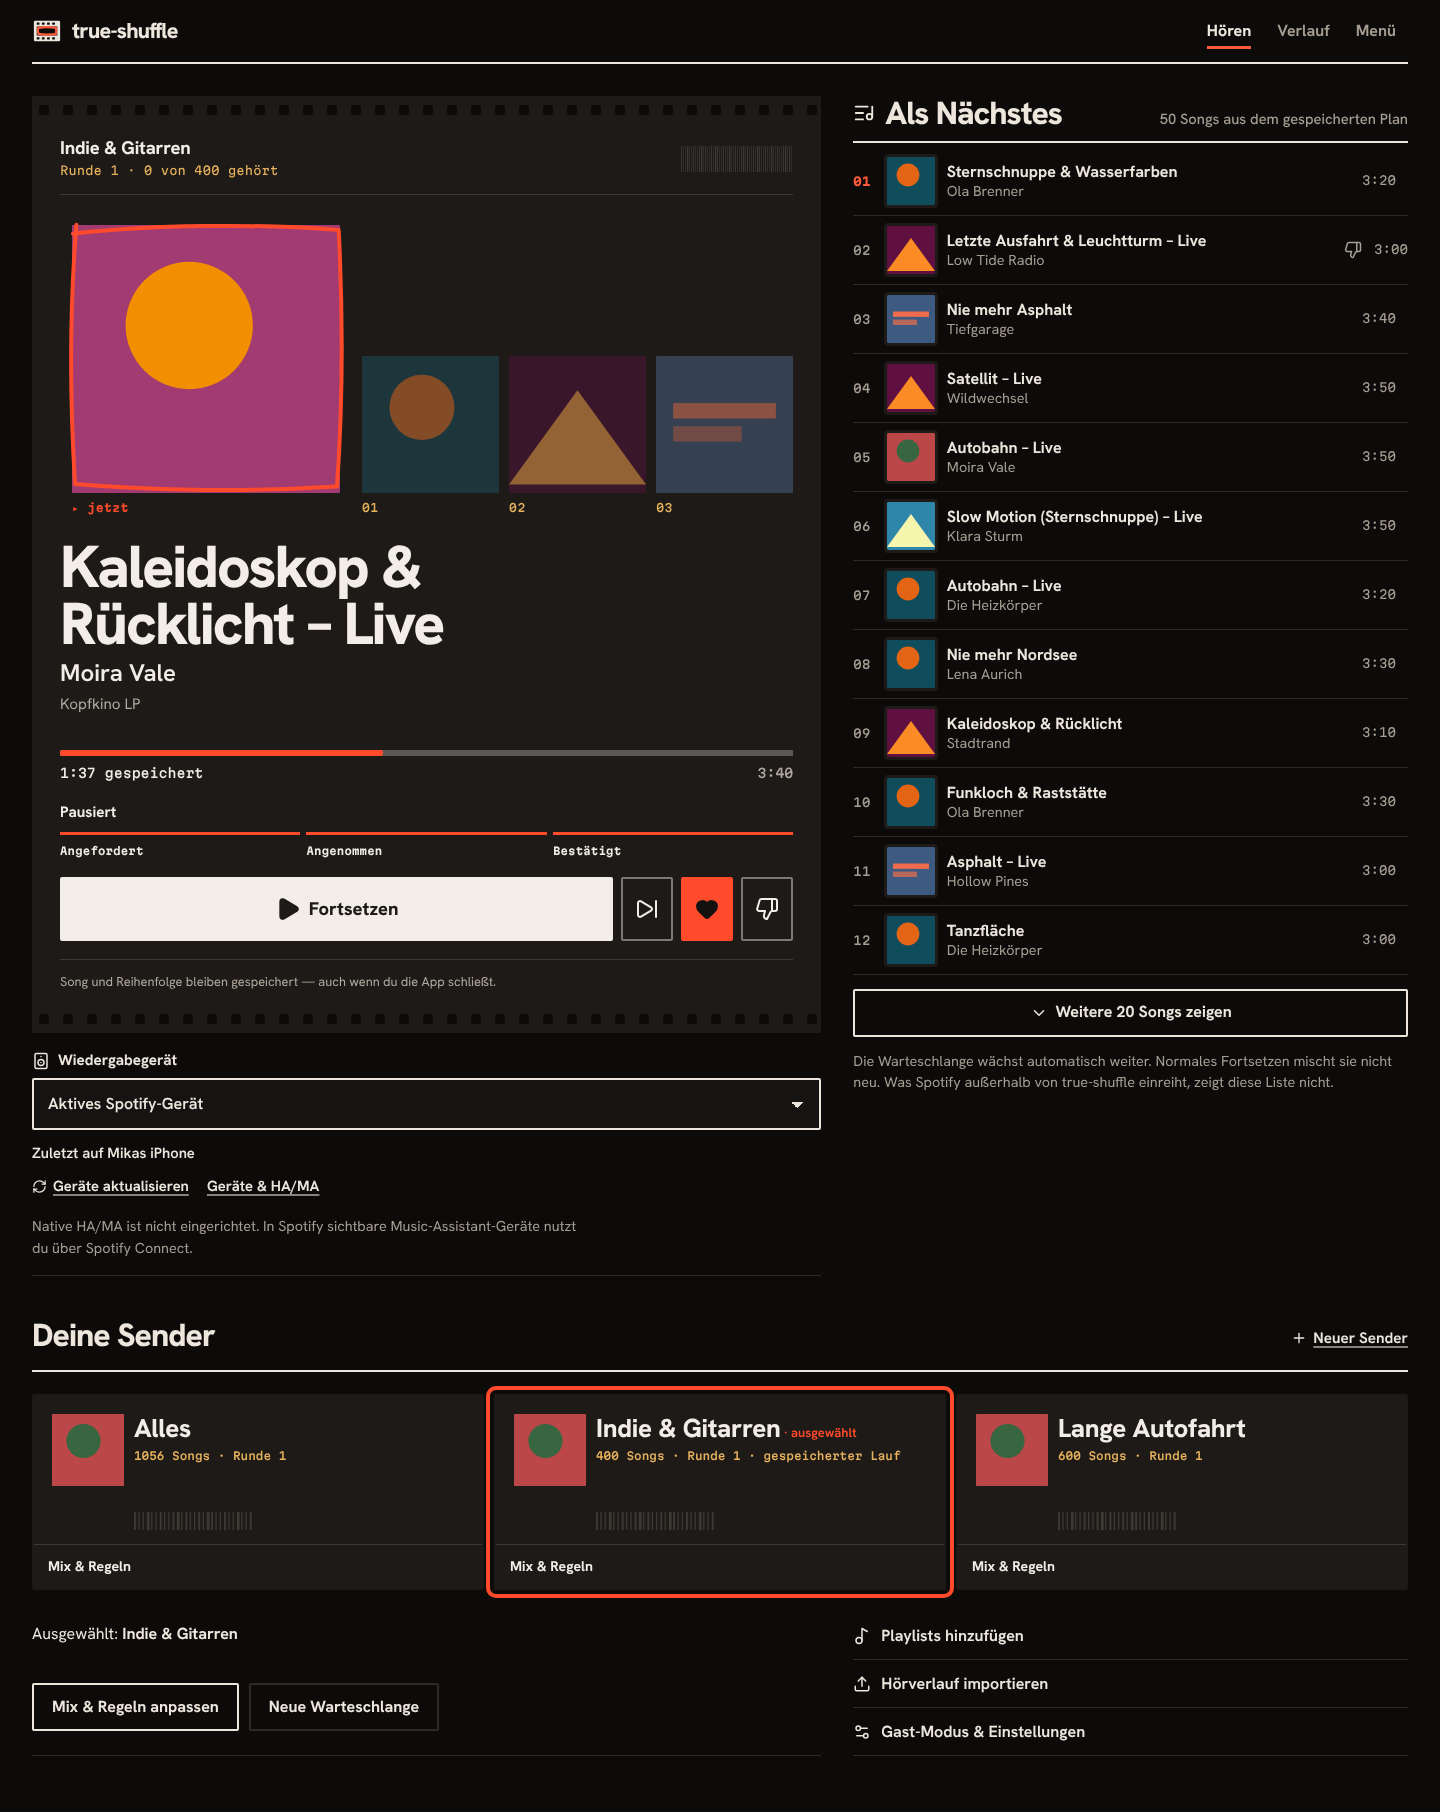
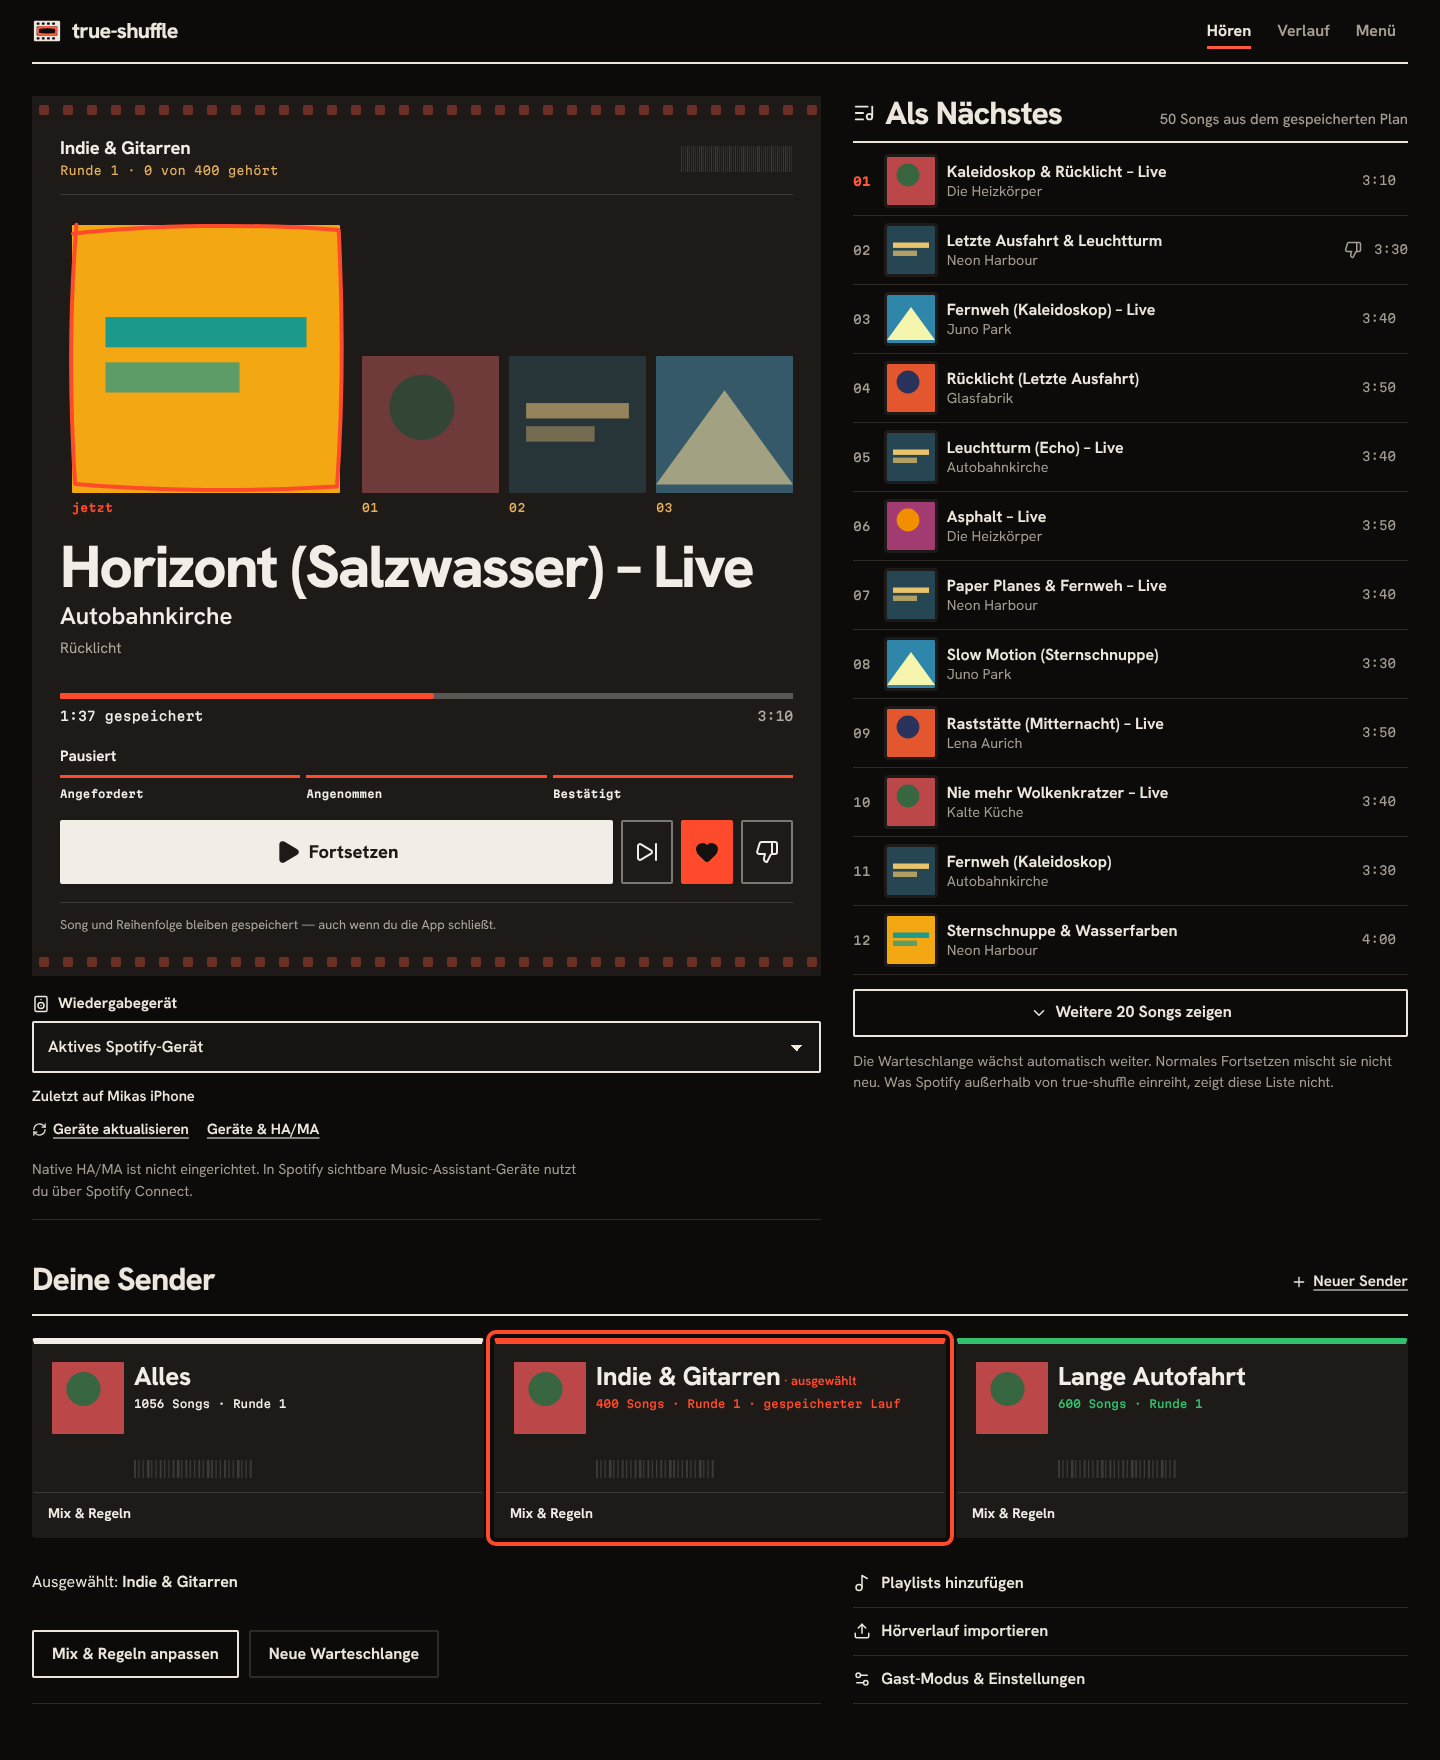
fix(ui): finish-review batch — mobile reading order, unbroken segment labels, darkroom perforation, per-Sender grease, bounded highlight
Claude-Session: https://claude.ai/code/session_01GfrWhVD3PNTtGAxyXcbJSX

diff --git a/src/client/styles/base.css b/src/client/styles/base.css
@@ -600,12 +600,13 @@ main h1[tabindex="-1"]:focus {
 
 .now-shelf {
 	display: grid;
-	grid-template-columns: min(36vw, 148px) minmax(0, 1fr);
+	grid-template-columns: minmax(0, 1fr);
 	grid-template-areas:
-		"art artist"
-		"art album"
-		"title title";
-	grid-template-rows: 1fr auto auto;
+		"art"
+		"title"
+		"artist"
+		"album";
+	grid-template-rows: auto;
 	column-gap: 16px;
 	row-gap: 6px;
 }
@@ -616,7 +617,7 @@ main h1[tabindex="-1"]:focus {
 }
 
 .cover.player-art {
-	width: 100%;
+	width: min(52vw, 208px);
 	height: auto;
 	aspect-ratio: 1;
 	object-fit: cover;
@@ -1804,6 +1805,16 @@ input[type="radio"].check {
 		color var(--t) var(--ease);
 }
 
+.segmented__opt,
+.segmented__opt span {
+	overflow-wrap: normal;
+	word-break: normal;
+}
+
+.segmented__opt {
+	min-width: max-content;
+}
+
 .segmented__opt input {
 	position: absolute;
 	opacity: 0;
@@ -2447,6 +2458,7 @@ input[type="radio"].check {
 	}
 
 	.cover.player-art {
+		width: 100%;
 		margin-bottom: 0;
 	}
 

diff --git a/src/client/styles/kontakt.css b/src/client/styles/kontakt.css
@@ -83,6 +83,7 @@
 	--brand: #ff5a3c;
 	--film: #1d1a17;
 	--stage-line: #3f3934;
+	--hole: #6b2f25;
 }
 
 @media (prefers-color-scheme: dark) {
@@ -103,6 +104,7 @@
 		--brand: #ff5a3c;
 		--film: #1d1a17;
 		--stage-line: #3f3934;
+		--hole: #6b2f25;
 	}
 }
 
@@ -396,13 +398,14 @@
 	background: var(--film);
 	color: var(--film-fg);
 	border-color: var(--film);
+	border-top: 6px solid var(--st);
 	overflow: visible;
 }
 
 [data-design="kontakt"] .station-choice__meta {
 	font-family: var(--font-num);
 	font-size: 0.68rem;
-	color: var(--edge);
+	color: var(--st);
 }
 
 [data-design="kontakt"] .station-choice button {

diff --git a/src/client/components/brand.tsx b/src/client/components/brand.tsx
@@ -208,7 +208,7 @@ export function StageArt(props: {
 			<div class="filmstrip__frame filmstrip__frame--now">
 				<Cover src={props.src} class="player-art" eager />
 				<GreaseBox />
-				<span class="filmstrip__edge">▸ {props.label}</span>
+				<span class="filmstrip__edge">{props.label}</span>
 			</div>
 			{props.next.slice(0, 3).map((t, i) => (
 				<div class="filmstrip__frame" key={`${t.id}-${i}`}>

diff --git a/src/client/styles/strich.css b/src/client/styles/strich.css
@@ -428,6 +428,8 @@
 }
 
 [data-design="strich"] .station-choice__name {
+	justify-self: start;
+	width: fit-content;
 	font-weight: 800;
 	letter-spacing: -0.025em;
 }

diff --git a/.impeccable/surfaces/src-client.md b/.impeccable/surfaces/src-client.md
@@ -9,7 +9,7 @@ related_targets: []
 Mode: Operate. Build path: code-led (recorded default). Owner (2026-10-07) asked for all four dealt directions built side by side and switchable in the menu ("Gestaltung"), so the owner can live with each before choosing. Focus: Song + Play/Pause. Theme: automatic (system), day and night fully drawn for every design. The concert-poster world is replaced in full.
 ## Direction contract
 THESIS: One shared, standard listening shell (header nav, stage with song and transport, saved queue, Sender list, menu pages) carries four complete brand worlds. Each world lends only type, palette, density and one signature move; layout, controls and every honest state stay identical. Refuses the dark Spotify clone as the only option and the previous poster.
-OWN-WORLD: Kontaktbogen (assigned): photo-paper ground / darkroom night, black film strip with sprockets, grease-pencil colour per Sender, Hanken Grotesk + Martian Mono edge print; signature: current cover boxed in grease pencil on a strip with the next queue frames, round as barcode. Linienplan (challenger, wins): signage white / midnight enamel, one line colour per Sender, Atkinson Hyperlegible Next; signature: queue as stops down the Sender's line, line badges S1…, round as line. Strichliste (pick): Karopapier / Tafel, graphite and marker, Bricolage Grotesque; signature: round counted in five-bundles, marker underline under the title. Klassisch (canon): system face, rounded, big centred cover, circular play key.
+OWN-WORLD: Kontaktbogen (assigned): photo-paper ground / darkroom night, black film strip with sprockets, grease-pencil colour per Sender, Hanken Grotesk + Martian Mono edge print; signature: current cover boxed in grease pencil on a strip with the next queue frames, round as barcode. Linienplan (challenger, wins): white signage panels on station-wall grey / midnight enamel, one line colour per Sender, Atkinson Hyperlegible Next; signature: queue as stops down the Sender's line, line badges S1…, round as line. Strichliste (pick): Karopapier / Tafel, graphite and marker, Bricolage Grotesque; signature: round counted in five-bundles, marker underline under the title. Klassisch (canon): system face, rounded, big centred cover, circular play key.
 STORY: Glance: which song, which Sender, playing or not, confirmed or not. Tap: Fortsetzen/Pause, Weiter, Favorit, nie wieder, device. Scroll: Als Nächstes in stored order, then Sender. Menu: Gestaltung picker with a mark per world.
 FIRST VIEWPORT: Header (mark + lowercase wordmark, Hören/Verlauf/Menü). Stage: Sender line with round meter, cover (film strip in Kontaktbogen), title at display scale, artist/album, progress, three-step signal, main transport key plus Weiter/Favorit/nie wieder at 52px+. Device select directly below. Desktop ≥1100px: stage 7 cols, queue 5 cols, Sender full width below.
 FORM: four directions shown together; assigned = own list position 5 (Kontaktbogen), challenger rail diagram, pick = position 1 (Strichliste), canon. Seed key 1857f2c8.
